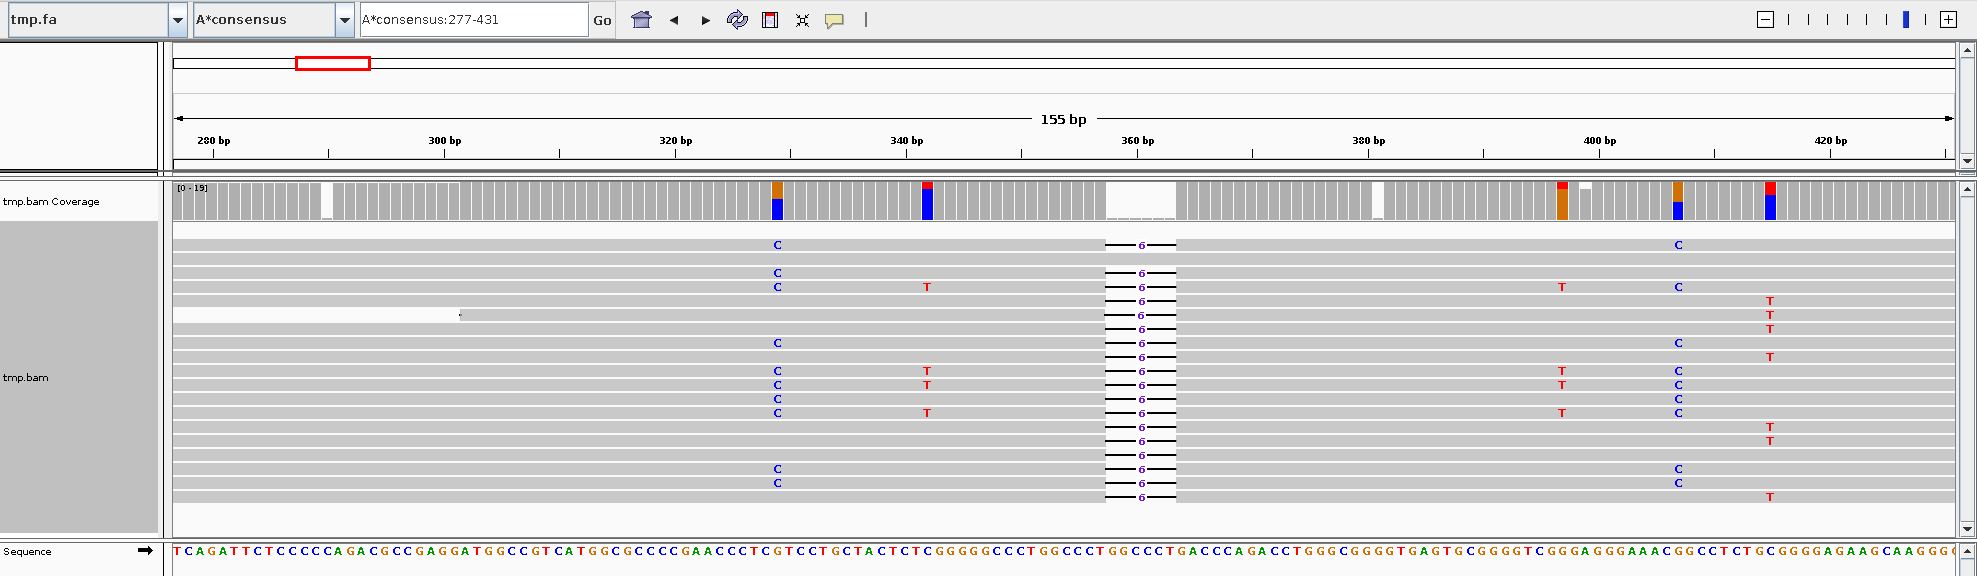
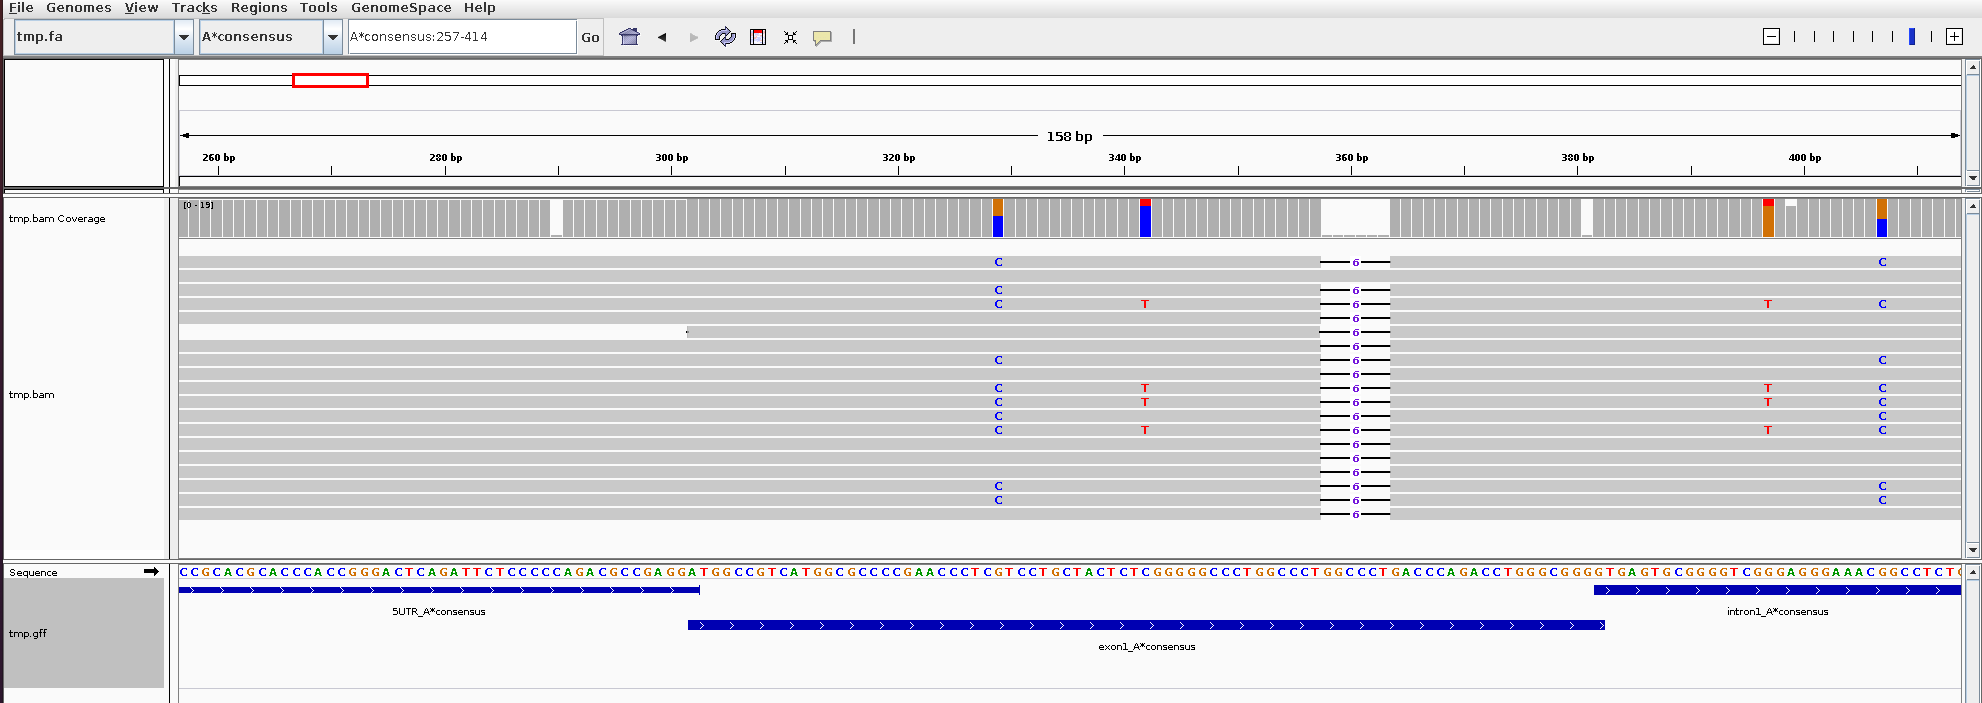
Export to GFF

diff --git a/HLAmsa.py b/HLAmsa.py
@@ -88,7 +88,7 @@ class HLAmsa:
 
 
 class Genemsa:
-    def __init__(self, gene_name, seq_type="gen"):
+    def __init__(self, gene_name, seq_type=""):
         self.gene_name = gene_name
         self.alleles = {}
         self.blocks = []  # intron exon length
@@ -602,7 +602,7 @@ class Genemsa:
 
         return cigar
 
-    def save_bam(self, ref_allele, fname):
+    def save_bam(self, fname, ref_allele):
         """ Save the MSA to bam aligned on ref_allele """
         if not len(self.alleles):
             raise ValueError("MSA is empty")
@@ -621,12 +621,14 @@ class Genemsa:
                           'SN': ref_allele}]}
 
         # write bam file
+        cigars = []
         with pysam.AlignmentFile(fname, "wb", header=header) as outf:
             for allele, seq in self.alleles.items():
                 a = pysam.AlignedSegment()
                 a.query_name = allele
                 a.query_sequence = seq.replace("E", "").replace("-", "")
-                a.cigar = self._calculate_cigar(ref_seq, seq)
+                cigars.append(self._calculate_cigar(ref_seq, seq))
+                a.cigar = cigars[-1]
 
                 # set to default
                 a.mapping_quality = 60
@@ -640,6 +642,61 @@ class Genemsa:
                 outf.write(a)
         pysam.sort("-o", fname, fname)
         pysam.index(fname)
+        return cigars
+
+    def _get_label(self):
+        """ return assume label name for each chunk """
+        if self.seq_type == "gen":
+            assert len(self.blocks) % 2 == 1
+            labels = []
+            for i in range(len(self.blocks)):
+                if i % 2:
+                    labels.append(("exon", f"exon{i // 2 + 1}"))
+                else:
+                    labels.append(("intron", f"intron{i // 2}"))
+            labels[0] = ("five_prime_UTR", "5UTR")
+            labels[-1] = ("three_prime_UTR", "3UTR")
+            return labels
+
+        elif self.seq_type == "nuc":
+            return [("exon", f"exon{i+1}") for i in range(len(self.blocks))]
+        else:
+            return [("gene_fragment", f"chunk{i+1}") for i in range(len(self.blocks))]
+
+    def save_gff(self, fname, labels=[]):
+        """ Output GFF3 format """
+        # http://gmod.org/wiki/GFF3
+        if not len(self.blocks):
+            raise ValueError("MSA is empty")
+        if not labels:
+            labels = self._get_label()
+        elif len(self.blocks) != len(labels):
+            raise ValueError("Labels length is different from MSA chunks")
+
+        block_pos = self.calculate_position()
+        records = []
+
+        # save allele info in each record
+        for allele, seq in self.alleles.items():
+            record = []
+            pos = [len(seq[:i].replace("E", "").replace("-", "")) for i in block_pos]
+
+            for i in range(len(self.blocks)):
+                # ref source type start end . strand . tags
+                record.append(
+                    [allele, "pyHLAMSA", labels[i][0],
+                     str(pos[i] + 1), str(pos[i + 1]), ".", "+", ".",
+                     f"ID={labels[i][1]}_{allele}"]
+                )
+            records.extend(record)
+
+        # save
+        with open(fname, "w") as f:
+            f.write("##gff-version 3\n")
+            for record in records:
+                f.write("\t".join(record) + "\n")
+
+        return records
 
 
 if __name__ == "__main__":
@@ -657,8 +714,9 @@ if __name__ == "__main__":
     # output
     print(a_sub.select_exon().format_alignment_diff("A*consensus"))
     print(a_sub.to_MultipleSeqAlignment())
-    a_sub.save_bam("A*consensus", "tmp.bam")
-    SeqIO.write(a.to_fasta(gap=False), "tmp.fa", "fasta")
+    a_sub.save_bam("tmp.bam", "A*consensus")
+    SeqIO.write(a_sub.to_fasta(gap=False), "tmp.fa", "fasta")
+    a_sub.save_gff("tmp.gff")
 
     # align seq on the consensus and print
     seq = list(a.get("A*01:01:87"))

diff --git a/README.md b/README.md
@@ -96,8 +96,14 @@ print(a_sub.select_exon([]).format_alignment_diff("query"))
 # Thus, you can save in any format
 print(a_sub.to_MultipleSeqAlignment())
 
+# save to fasta(no gap)
+SeqIO.write(a_sub.to_fasta(gap=False), "tmp.fa", "fasta")
+
 # save to bam file
-a_sub.save_bam(ref_allele="A*consensus", "tmp.bam")
+a_sub.save_bam("tmp.bam", ref_allele="A*consensus")
+
+# save to gff3 (This file can show where exons are in IGV)
+a_sub.save_gff("tmp.gff")
 ```
 
 ### Example
